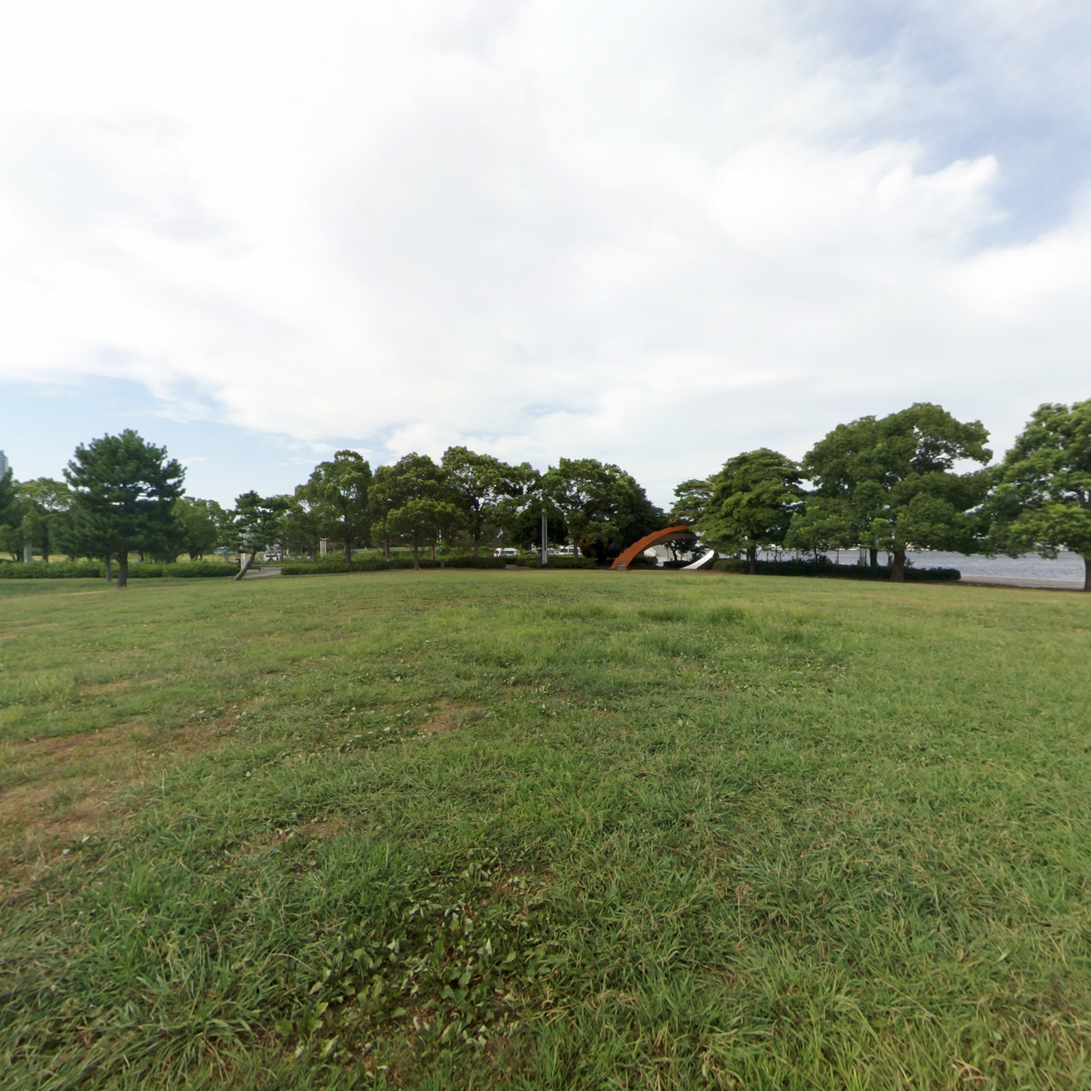
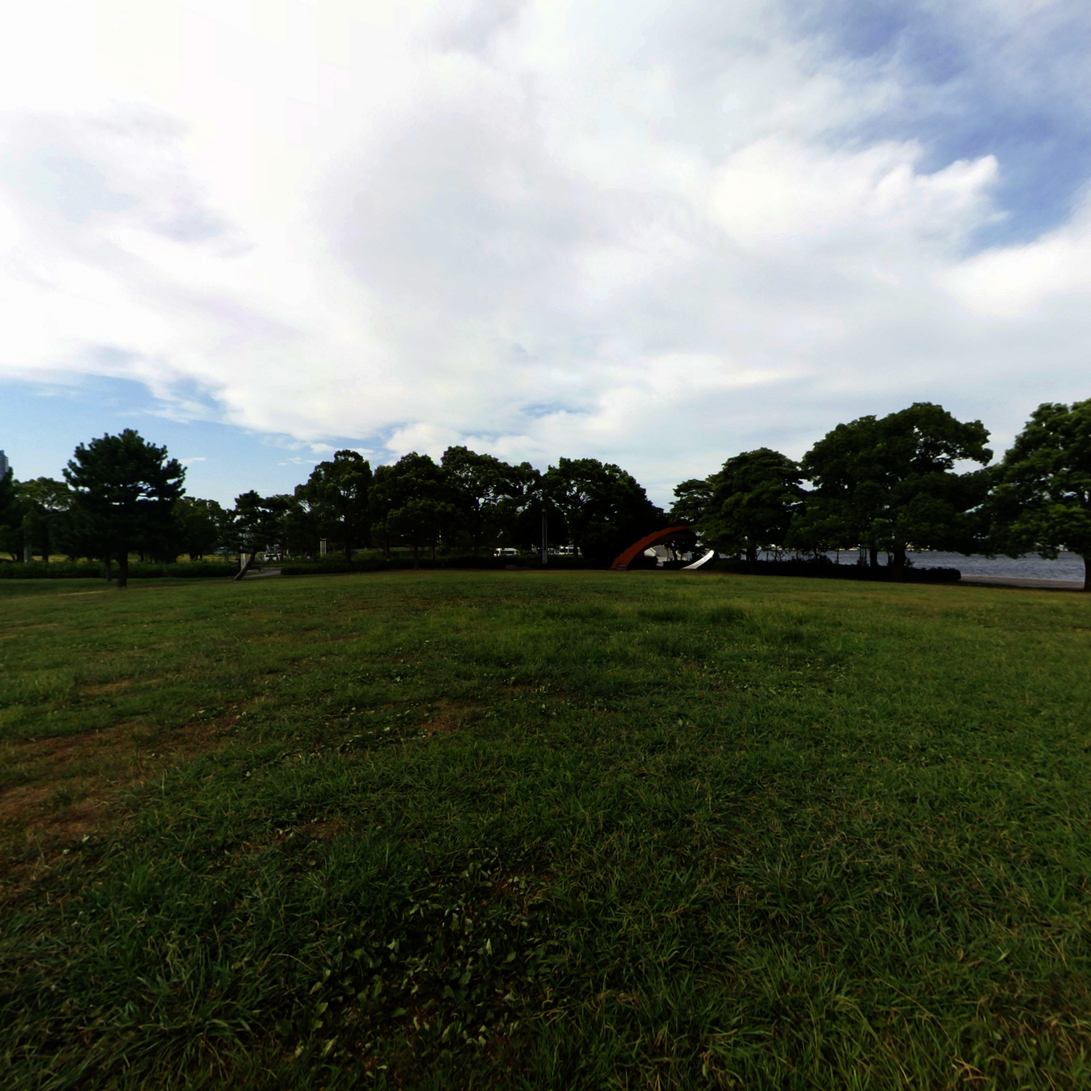
Created cubemap texture and framebuffers support, adjusted gamma in skybox, fixed bug in deferred shader

diff --git a/VEngineNative/CubeMapFramebuffer.cpp b/VEngineNative/CubeMapFramebuffer.cpp
@@ -4,9 +4,105 @@
 
 CubeMapFramebuffer::CubeMapFramebuffer()
 {
+    attachedTextures = {};
+    generated = false;
+    width = 1;
+    height = 1;
+}
+
+CubeMapFramebuffer::CubeMapFramebuffer(int iwidth, int iheight, GLuint ihandle)
+{
+    handle = ihandle;
+    width = iwidth;
+    height = iheight;
+    generated = true;
 }
 
 
 CubeMapFramebuffer::~CubeMapFramebuffer()
 {
+}
+
+void CubeMapFramebuffer::attachTexture(CubeMapTexture * tex, GLenum attachment)
+{
+    Attachment *ath = new Attachment();
+    ath->texture = tex;
+    ath->attachment = attachment;
+    attachedTextures.push_back(ath);
+    width = tex->width;
+    height = tex->height;
+}
+
+void CubeMapFramebuffer::use()
+{
+    if (!generated)
+        generate();
+
+    glBindFramebuffer(GL_FRAMEBUFFER, handle);
+
+    glViewport(0, 0, width, height);
+}
+
+Camera* CubeMapFramebuffer::switchFace(GLenum face, bool clear)
+{
+    int vindex = face - GL_TEXTURE_CUBE_MAP_POSITIVE_X;
+    for (int i = 0; i < attachedTextures.size(); i++) {
+        glFramebufferTexture2D(GL_FRAMEBUFFER, attachedTextures[i]->attachment, face, attachedTextures[i]->texture->handle, 0);
+    }
+    if (clear)
+        glClear(GL_COLOR_BUFFER_BIT | GL_DEPTH_BUFFER_BIT);
+    return facesCameras[vindex];
+}
+
+void CubeMapFramebuffer::generate()
+{
+    facesCameras = {};
+
+    Camera * cam_posx = new Camera();
+    Camera * cam_posy = new Camera();
+    Camera * cam_posz = new Camera();
+
+    Camera * cam_newx = new Camera();
+    Camera * cam_newy = new Camera();
+    Camera * cam_newz = new Camera();
+
+    cam_posx->createProjectionPerspective(deg2rad(90.0f), 1.0f, 0.01f, 10000.0f);
+    cam_posy->createProjectionPerspective(deg2rad(90.0f), 1.0f, 0.01f, 10000.0f);
+    cam_posz->createProjectionPerspective(deg2rad(90.0f), 1.0f, 0.01f, 10000.0f);
+
+    cam_newx->createProjectionPerspective(deg2rad(90.0f), 1.0f, 0.01f, 10000.0f);
+    cam_newy->createProjectionPerspective(deg2rad(90.0f), 1.0f, 0.01f, 10000.0f);
+    cam_newz->createProjectionPerspective(deg2rad(90.0f), 1.0f, 0.01f, 10000.0f);
+
+    cam_posx->transformation->orientation = glm::quat_cast(glm::lookAt(glm::vec3(0), glm::vec3(1, 0, 0), glm::vec3(0, -1, 0)));
+    cam_posy->transformation->orientation = glm::quat_cast(glm::lookAt(glm::vec3(0), glm::vec3(0, 1, 0), glm::vec3(0, 0, 1)));
+    cam_posz->transformation->orientation = glm::quat_cast(glm::lookAt(glm::vec3(0), glm::vec3(0, 0, 1), glm::vec3(0, -1, 0)));
+
+    cam_newx->transformation->orientation = glm::quat_cast(glm::lookAt(glm::vec3(0), glm::vec3(1, 0, 0), glm::vec3(0, -1, 0)));
+    cam_newy->transformation->orientation = glm::quat_cast(glm::lookAt(glm::vec3(0), glm::vec3(0, -1, 0), glm::vec3(0, 0, -1)));
+    cam_newz->transformation->orientation = glm::quat_cast(glm::lookAt(glm::vec3(0), glm::vec3(0, 0, -1), glm::vec3(0, -1, 0)));
+
+    facesCameras.push_back(cam_posx);
+    facesCameras.push_back(cam_posy);
+    facesCameras.push_back(cam_posz);
+
+    facesCameras.push_back(cam_newx);
+    facesCameras.push_back(cam_newy);
+    facesCameras.push_back(cam_newz);
+
+    glGenFramebuffers(1, &handle);
+    glBindFramebuffer(GL_FRAMEBUFFER, handle);
+    vector<GLenum> buffers;
+    for (int i = 0; i < attachedTextures.size(); i++) {
+        attachedTextures[i]->texture->pregenerate();
+        glFramebufferTexture2D(GL_FRAMEBUFFER, attachedTextures[i]->attachment, GL_TEXTURE_CUBE_MAP_POSITIVE_X, attachedTextures[i]->texture->handle, 0);
+        if (attachedTextures[i]->attachment < GL_DEPTH_ATTACHMENT)buffers.push_back(attachedTextures[i]->attachment);
+    }
+    glDrawBuffers((GLsizei)buffers.size(), buffers.data());
+
+    if (glCheckFramebufferStatus(GL_FRAMEBUFFER) != GL_FRAMEBUFFER_COMPLETE) {
+        printf("Framebuffer not complete");
+    }
+    generated = true;
+
 }

diff --git a/VEngineNative/Renderer.cpp b/VEngineNative/Renderer.cpp
@@ -47,15 +47,28 @@ void Renderer::renderToFramebuffer(CubeMapFramebuffer * fbo)
 
 void Renderer::renderToFramebuffer(Framebuffer * fboout)
 {
+    draw();
+    fboout->use(true);
+    output();
+}
+
+void Renderer::draw()
+{
     fbo->use(true);
     Game::instance->world->draw(Game::instance->shaders->materialShader, Game::instance->world->mainDisplayCamera);
-
     deferred();
+}
 
-
-    fboout->use(true);
+void Renderer::output()
+{
     outputShader->use();
+    mrtDistanceTexture->use(2);
+    skyboxTexture->use(3);
     deferredTexture->use(5);
+    FrustumCone *cone = Game::instance->world->mainDisplayCamera->cone;
+    outputShader->setUniform("FrustumConeLeftBottom", cone->leftBottom);
+    outputShader->setUniform("FrustumConeBottomLeftToBottomRight", cone->rightBottom - cone->leftBottom);
+    outputShader->setUniform("FrustumConeBottomLeftToTopLeft", cone->leftTop - cone->leftBottom);
     quad3dInfo->draw();
 }
 
@@ -106,3 +119,5 @@ void Renderer::deferred()
 
     glDisable(GL_BLEND);
 }
+
+

diff --git a/Tester/Tester.cpp b/Tester/Tester.cpp
@@ -42,12 +42,12 @@ int main()
     MaterialNode *color = new MaterialNode(new Texture("DisplaceIT_Ground_Pebble1_Color.png"), glm::vec2(1), NODE_MODE_REPLACE, NODE_TARGET_DIFFUSE);
     MaterialNode *normal = new MaterialNode(new Texture("DisplaceIT_Ground_Pebble1_NormalBump2.png"), glm::vec2(1), NODE_MODE_REPLACE, NODE_TARGET_NORMAL);
     MaterialNode *normal2 = new MaterialNode(new Texture("mrkbasestoneb01_n.jpg"), glm::vec2(30), NODE_MODE_ADD, NODE_TARGET_NORMAL);
-    MaterialNode *roughness = new MaterialNode(new Texture("test1.jpg"), glm::vec2(1), NODE_MODE_REPLACE, NODE_TARGET_METALNESS);
+    MaterialNode *roughness = new MaterialNode(new Texture("test1.jpg"), glm::vec2(0.1), NODE_MODE_REPLACE, NODE_TARGET_METALNESS);
 
-   // mat->addNode(bump);
+    mat->addNode(bump);
     //mat->addNode(bump2);
-   // mat->addNode(color);
-   // mat->addNode(normal);
+    mat->addNode(color);
+    mat->addNode(normal);
     mat->addNode(normal2);
     mat->addNode(roughness);
 

diff --git a/VEngineNative/CubeMapFramebuffer.h b/VEngineNative/CubeMapFramebuffer.h
@@ -1,8 +1,27 @@
 #pragma once
+#include "CubeMapTexture.h"
+#include "Camera.h"
 class CubeMapFramebuffer
 {
 public:
     CubeMapFramebuffer();
+    CubeMapFramebuffer(int iwidth, int iheight, GLuint ihandle);
     ~CubeMapFramebuffer();
+    void attachTexture(CubeMapTexture *tex, GLenum attachment);
+    void use();
+    Camera* switchFace(GLenum face, bool clear);
+private:
+    class Attachment {
+    public:
+        CubeMapTexture* texture;
+        GLenum attachment;
+    };
+    vector<Attachment*> attachedTextures;
+    GLuint handle;
+    bool generated;
+    int width;
+    int height;
+    vector<Camera*> facesCameras;
+    void generate();
 };
 

diff --git a/VEngineNative/ShaderProgram.cpp b/VEngineNative/ShaderProgram.cpp
@@ -241,6 +241,7 @@ GLint ShaderProgram::getUniformLocation(string name)
 
 void ShaderProgram::compile()
 {
+    uniformLocationsMap = {};
     handle = glCreateProgram();
     GLuint vertexHandle = compileSingleShader(GL_VERTEX_SHADER, vertexFile, Media::readString(vertexFile));
     glAttachShader(handle, vertexHandle);

diff --git a/VEngineNative/Renderer.h b/VEngineNative/Renderer.h
@@ -31,5 +31,7 @@ private:
     Object3dInfo *quad3dInfo;
 
     void deferred();
+    void draw();
+    void output();
 };
 
